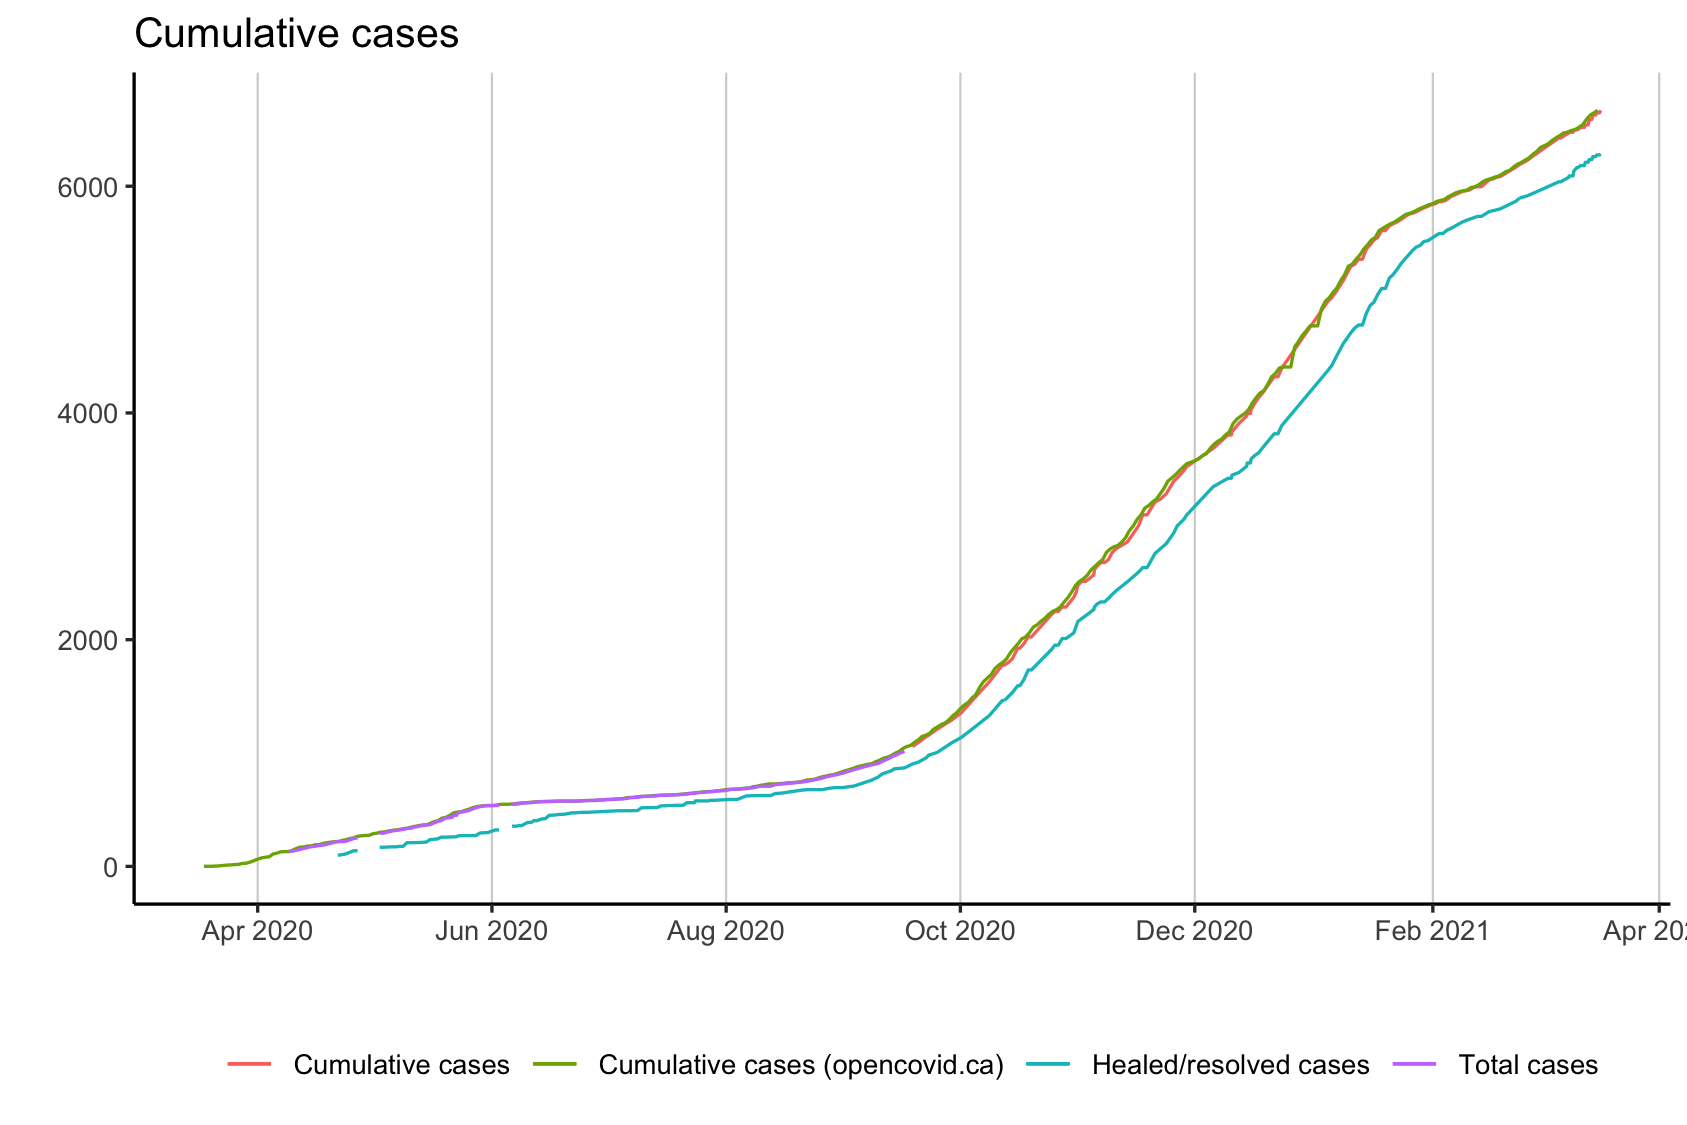
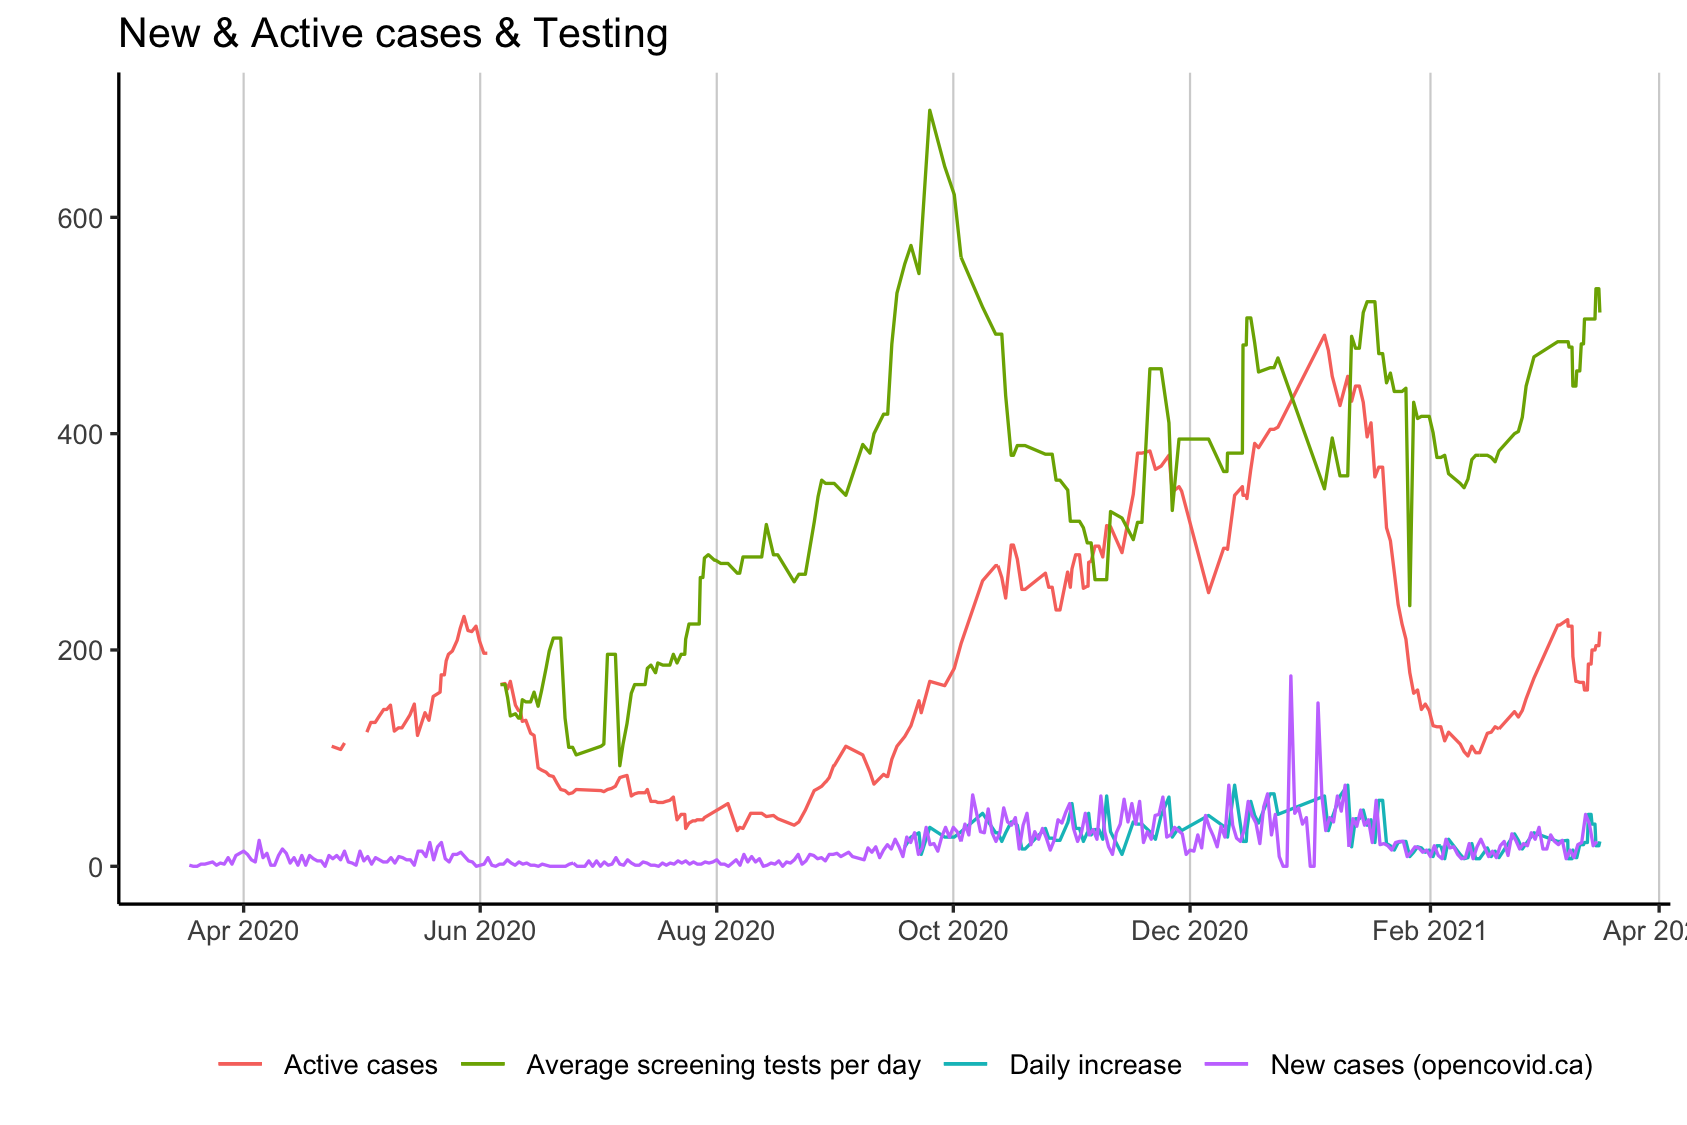
figures reorg (cont)

diff --git a/README.md b/README.md
@@ -4,10 +4,10 @@ Oskar Timo Thoms
 
 -   [Outaouais: regional totals](#outaouais-regional-totals)
 -   [RLS](#rls)
-    -   [New (TBA) & active cases](#new-tba--active-cases)
+    -   [New \[TBA\] & active cases](#new-tba--active-cases)
     -   [Cumulative cases](#cumulative-cases)
 -   [Municipalities](#municipalities)
-    -   [New & active cases (TBA)](#new--active-cases-tba)
+    -   [New & active cases \[TBA\]](#new--active-cases-tba)
     -   [Cumulative cases](#cumulative-cases-1)
 -   [Method and caveats](#method-and-caveats)
 -   [Glossary](#glossary)
@@ -41,7 +41,7 @@ page in your web browser.
 
 # RLS
 
-## New (TBA) & active cases
+## New \[TBA\] & active cases
 
 <img src="README_files/figure-gfm/rls_new-1.png" width="100%" height="100%" /><img src="README_files/figure-gfm/rls_new-2.png" width="100%" height="100%" />
 
@@ -51,7 +51,7 @@ page in your web browser.
 
 # Municipalities
 
-## New & active cases (TBA)
+## New & active cases \[TBA\]
 
 ## Cumulative cases
 
@@ -108,7 +108,7 @@ Users of these data need to be aware of the following caveats:
 
 Last HTML source download: 2021-03-16 17:15:04
 
-Last dataset revision: 2021-03-17 08:25:24
+Last dataset revision: 2021-03-17 10:47:41
 
 # Glossary
 
@@ -124,4 +124,4 @@ Last dataset revision: 2021-03-17 08:25:24
 <!-- | Deaths                          | regional, reported                     | -->
 <!-- | Average screening tests per day | region, reported, per 6 or 7 days      | -->
 
-Page last revised: 2021-03-17 09:50:14
+Page last revised: 2021-03-17 10:55:05
